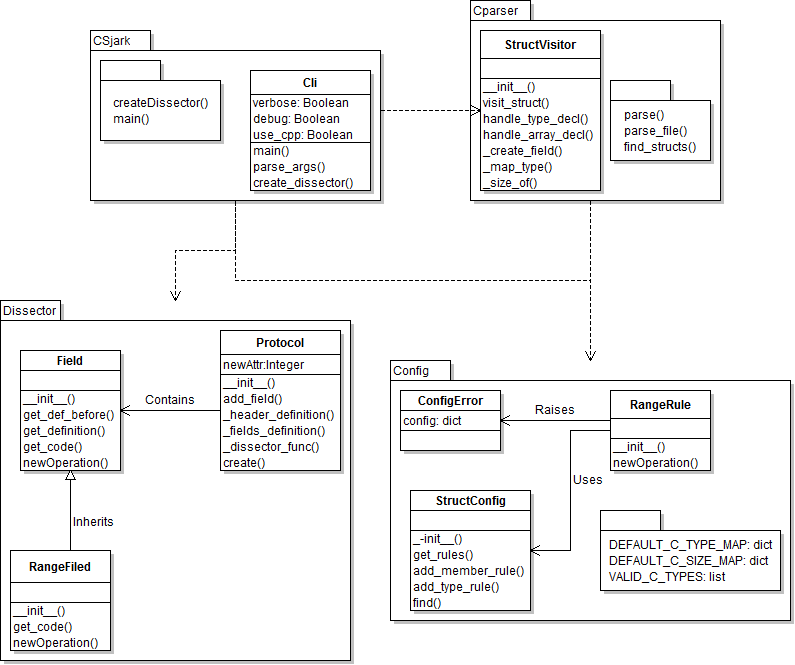
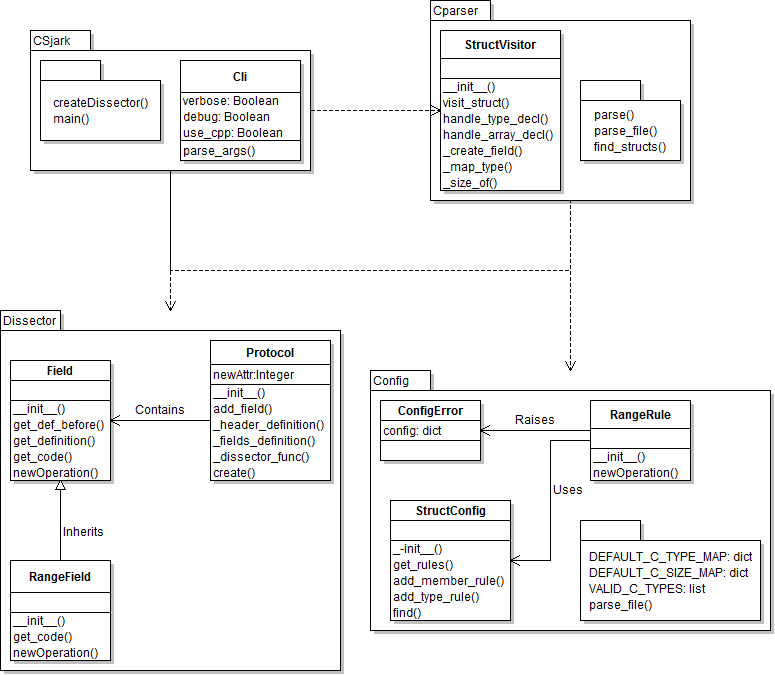
Fixing sprint1 design

diff --git a/report/sprints/sprint1.tex b/report/sprints/sprint1.tex
@@ -289,19 +289,34 @@ The RangeField class inherits from the Field class.
 
 \subsubsection{CSjark}
 %-------------------
+The utilities \emph{main()} function is a part of the CSjark module, the method will start parsing of CLI arguments, start parsing of the configuration files, and start generating dissectors by calling \emph{createDissectors()}. When all structs have been generated, it will print the results to the user on the command-line interface.
 
+The Cli class will hold all the paramters, andl take the parameters from the command-line interface, it will parse the arguments and return lists for header and config.
 
 \subsubsection{Cparser}
 %-------------------
+The Cparser module is used to parse the header files, and has three methods and a class. The preprocessing is done in \emph{parse\_file()}, \emph{parse()} is used to parse the file with pycparser library. To find a struct in the abstract syntax tree, the function \emph{find\_structs()} is used.
 
+StructVisitor is a class that go through the abstract syntax tree that the pycparser library generates. The class will handle all the declaration, and return a struct with the members.
 
 \subsubsection{Dissector}
 %-------------------
+This module has three classes that generated the Lua dissector.
 
+\begin{itemize}
+	\item Protocol: This class generates the Lua dissector from a c struct. It will use Field class for each of the struct members.
+	\item Field: Field is a class that generates code for each of the struct members. Field will used to generate code for basic data types, and will be a superclass for other data types and for fields that are configured.
+	\item RangeField: Is a subclass of Field. That is modified so it generate a field that will give a warning for an invalid value in Wireshark.
+\end{itemize}
 
 \subsubsection{Config}
 %-------------------
-
+This module consist of three classes, and a method to parse all the configuration files.
+\begin{itemize}
+	\item StructConfig: This is a class is used to store configuration for the c structs, and the configured members of the structs.
+	\item RangeRule: This class is for range rules, stores information of minimum and maximum values, and the struct member.
+	\item ConfigError: This class will raise an exception, if pyYAML is unable to parse the config file due to a error message.
+\end{itemize}
 
 \begin{figure}[!htb]
 	\center
